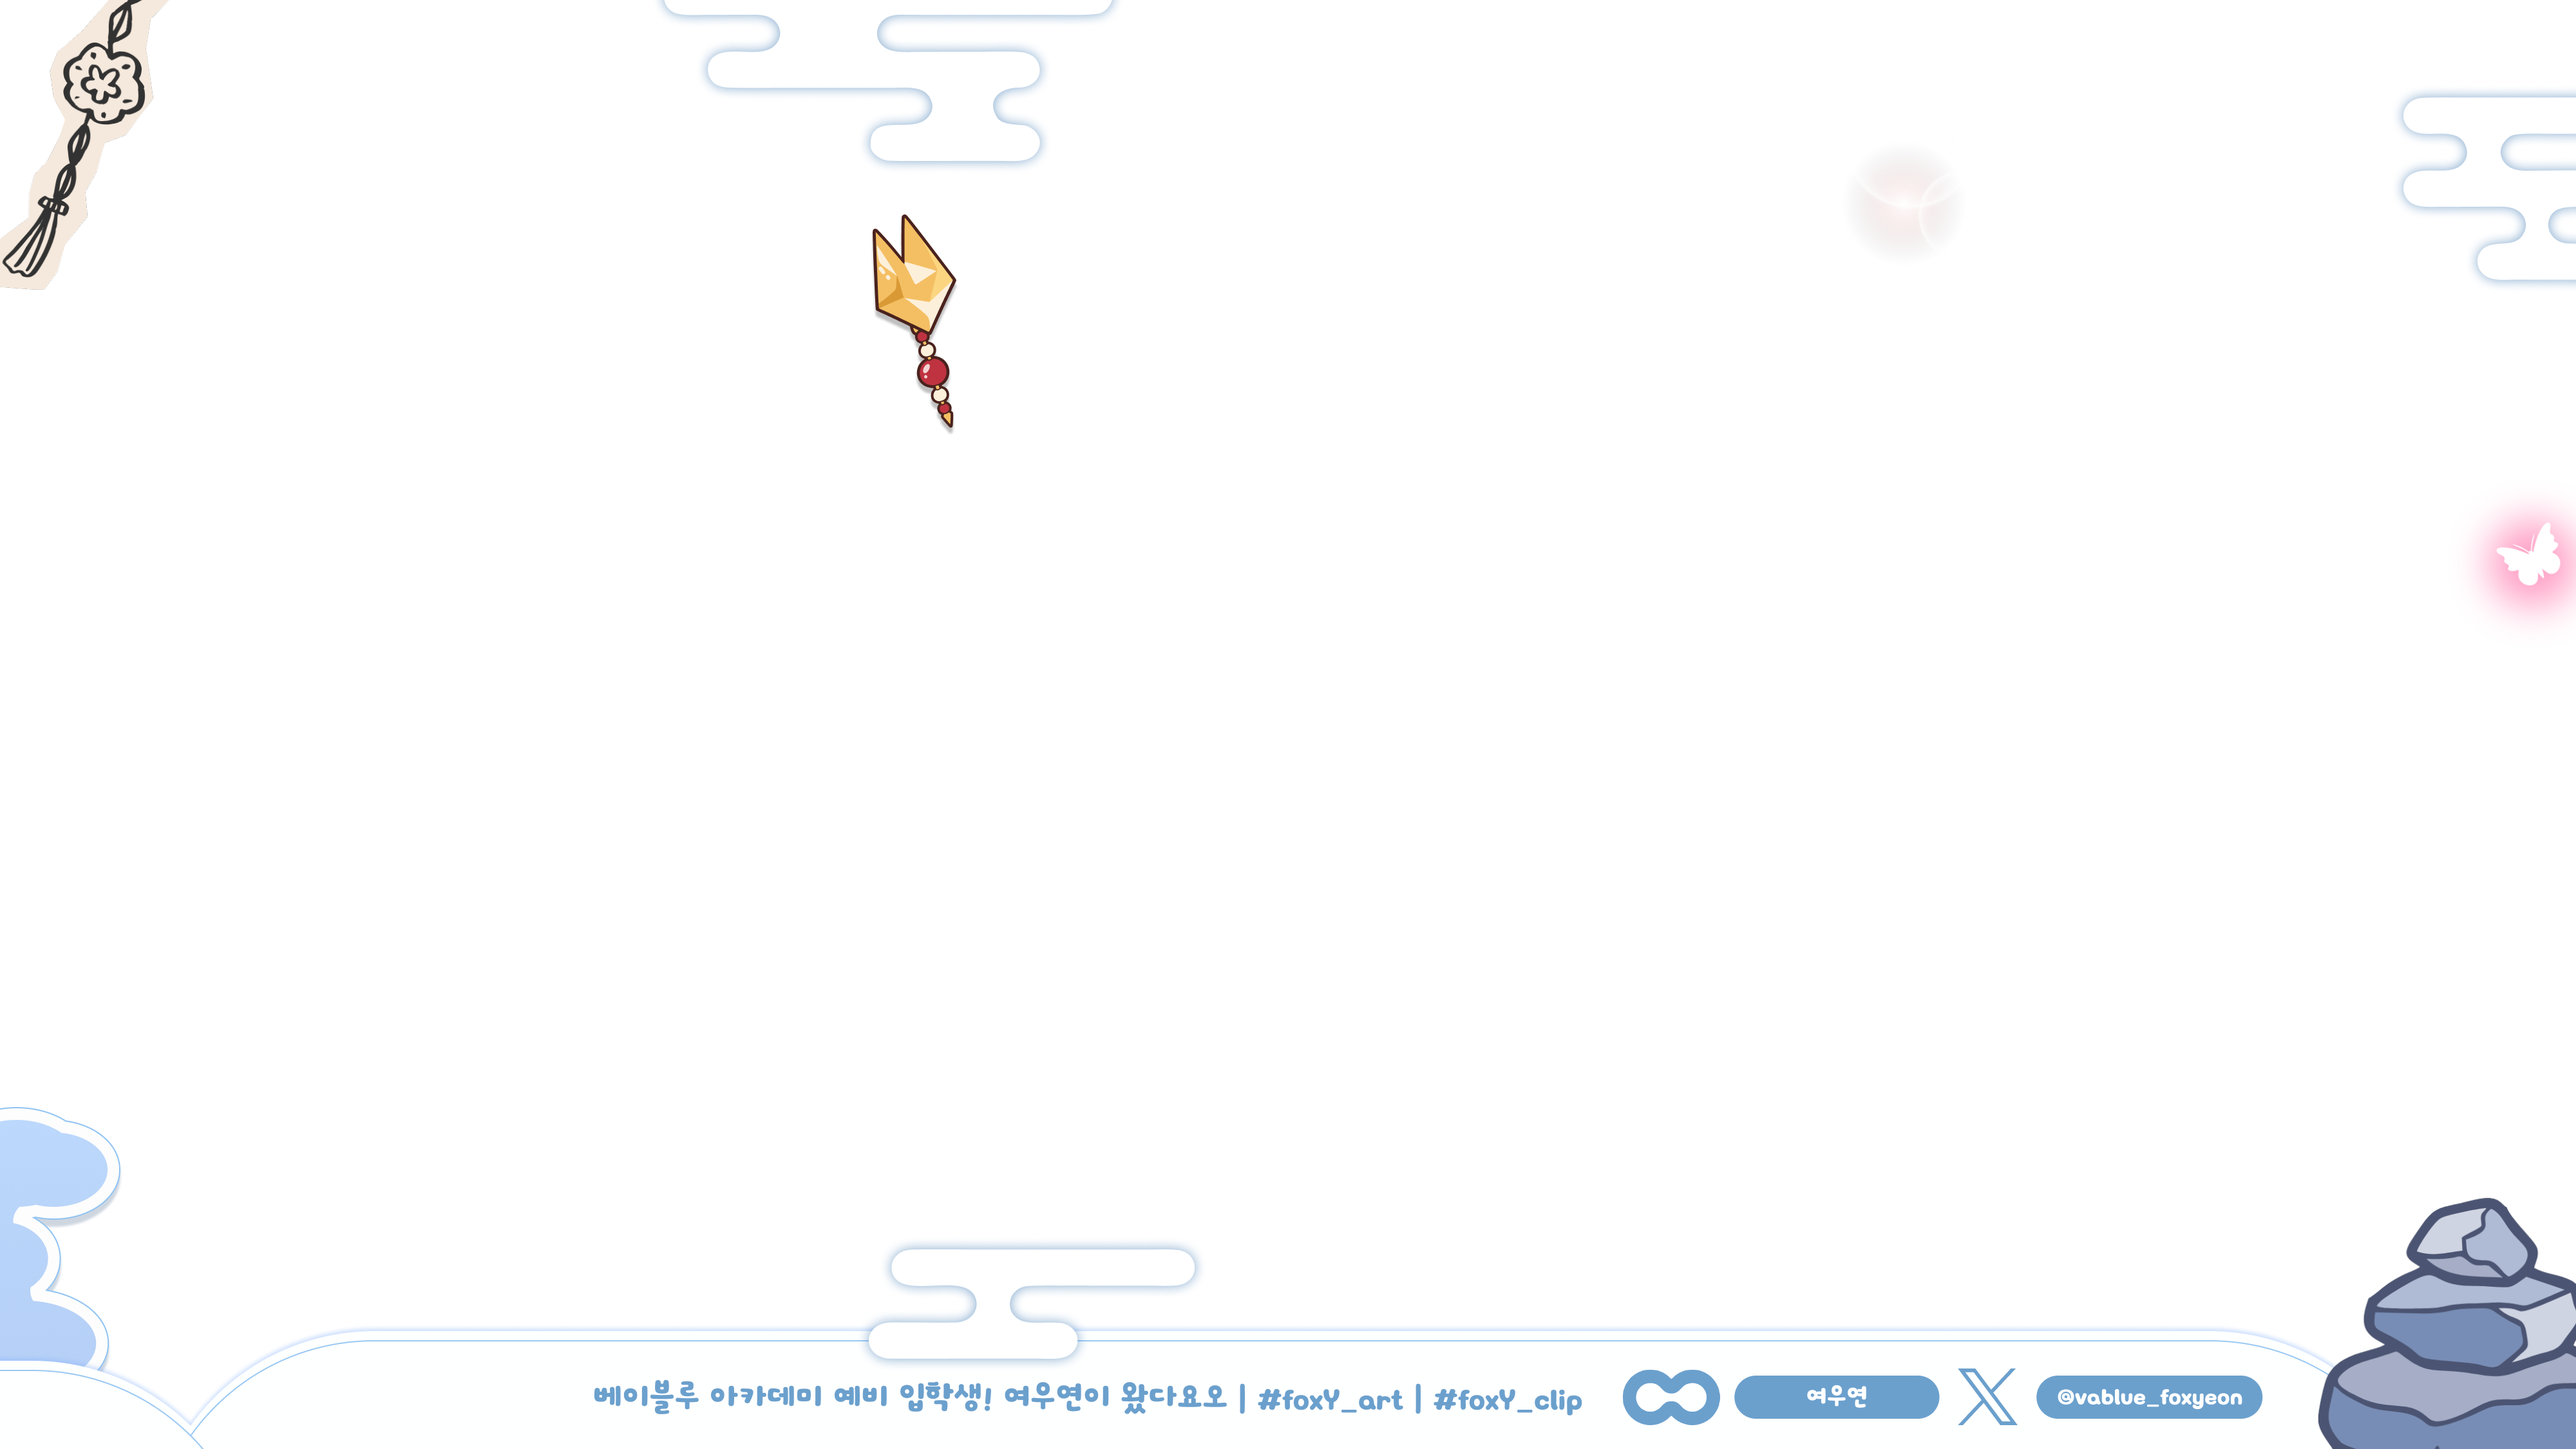
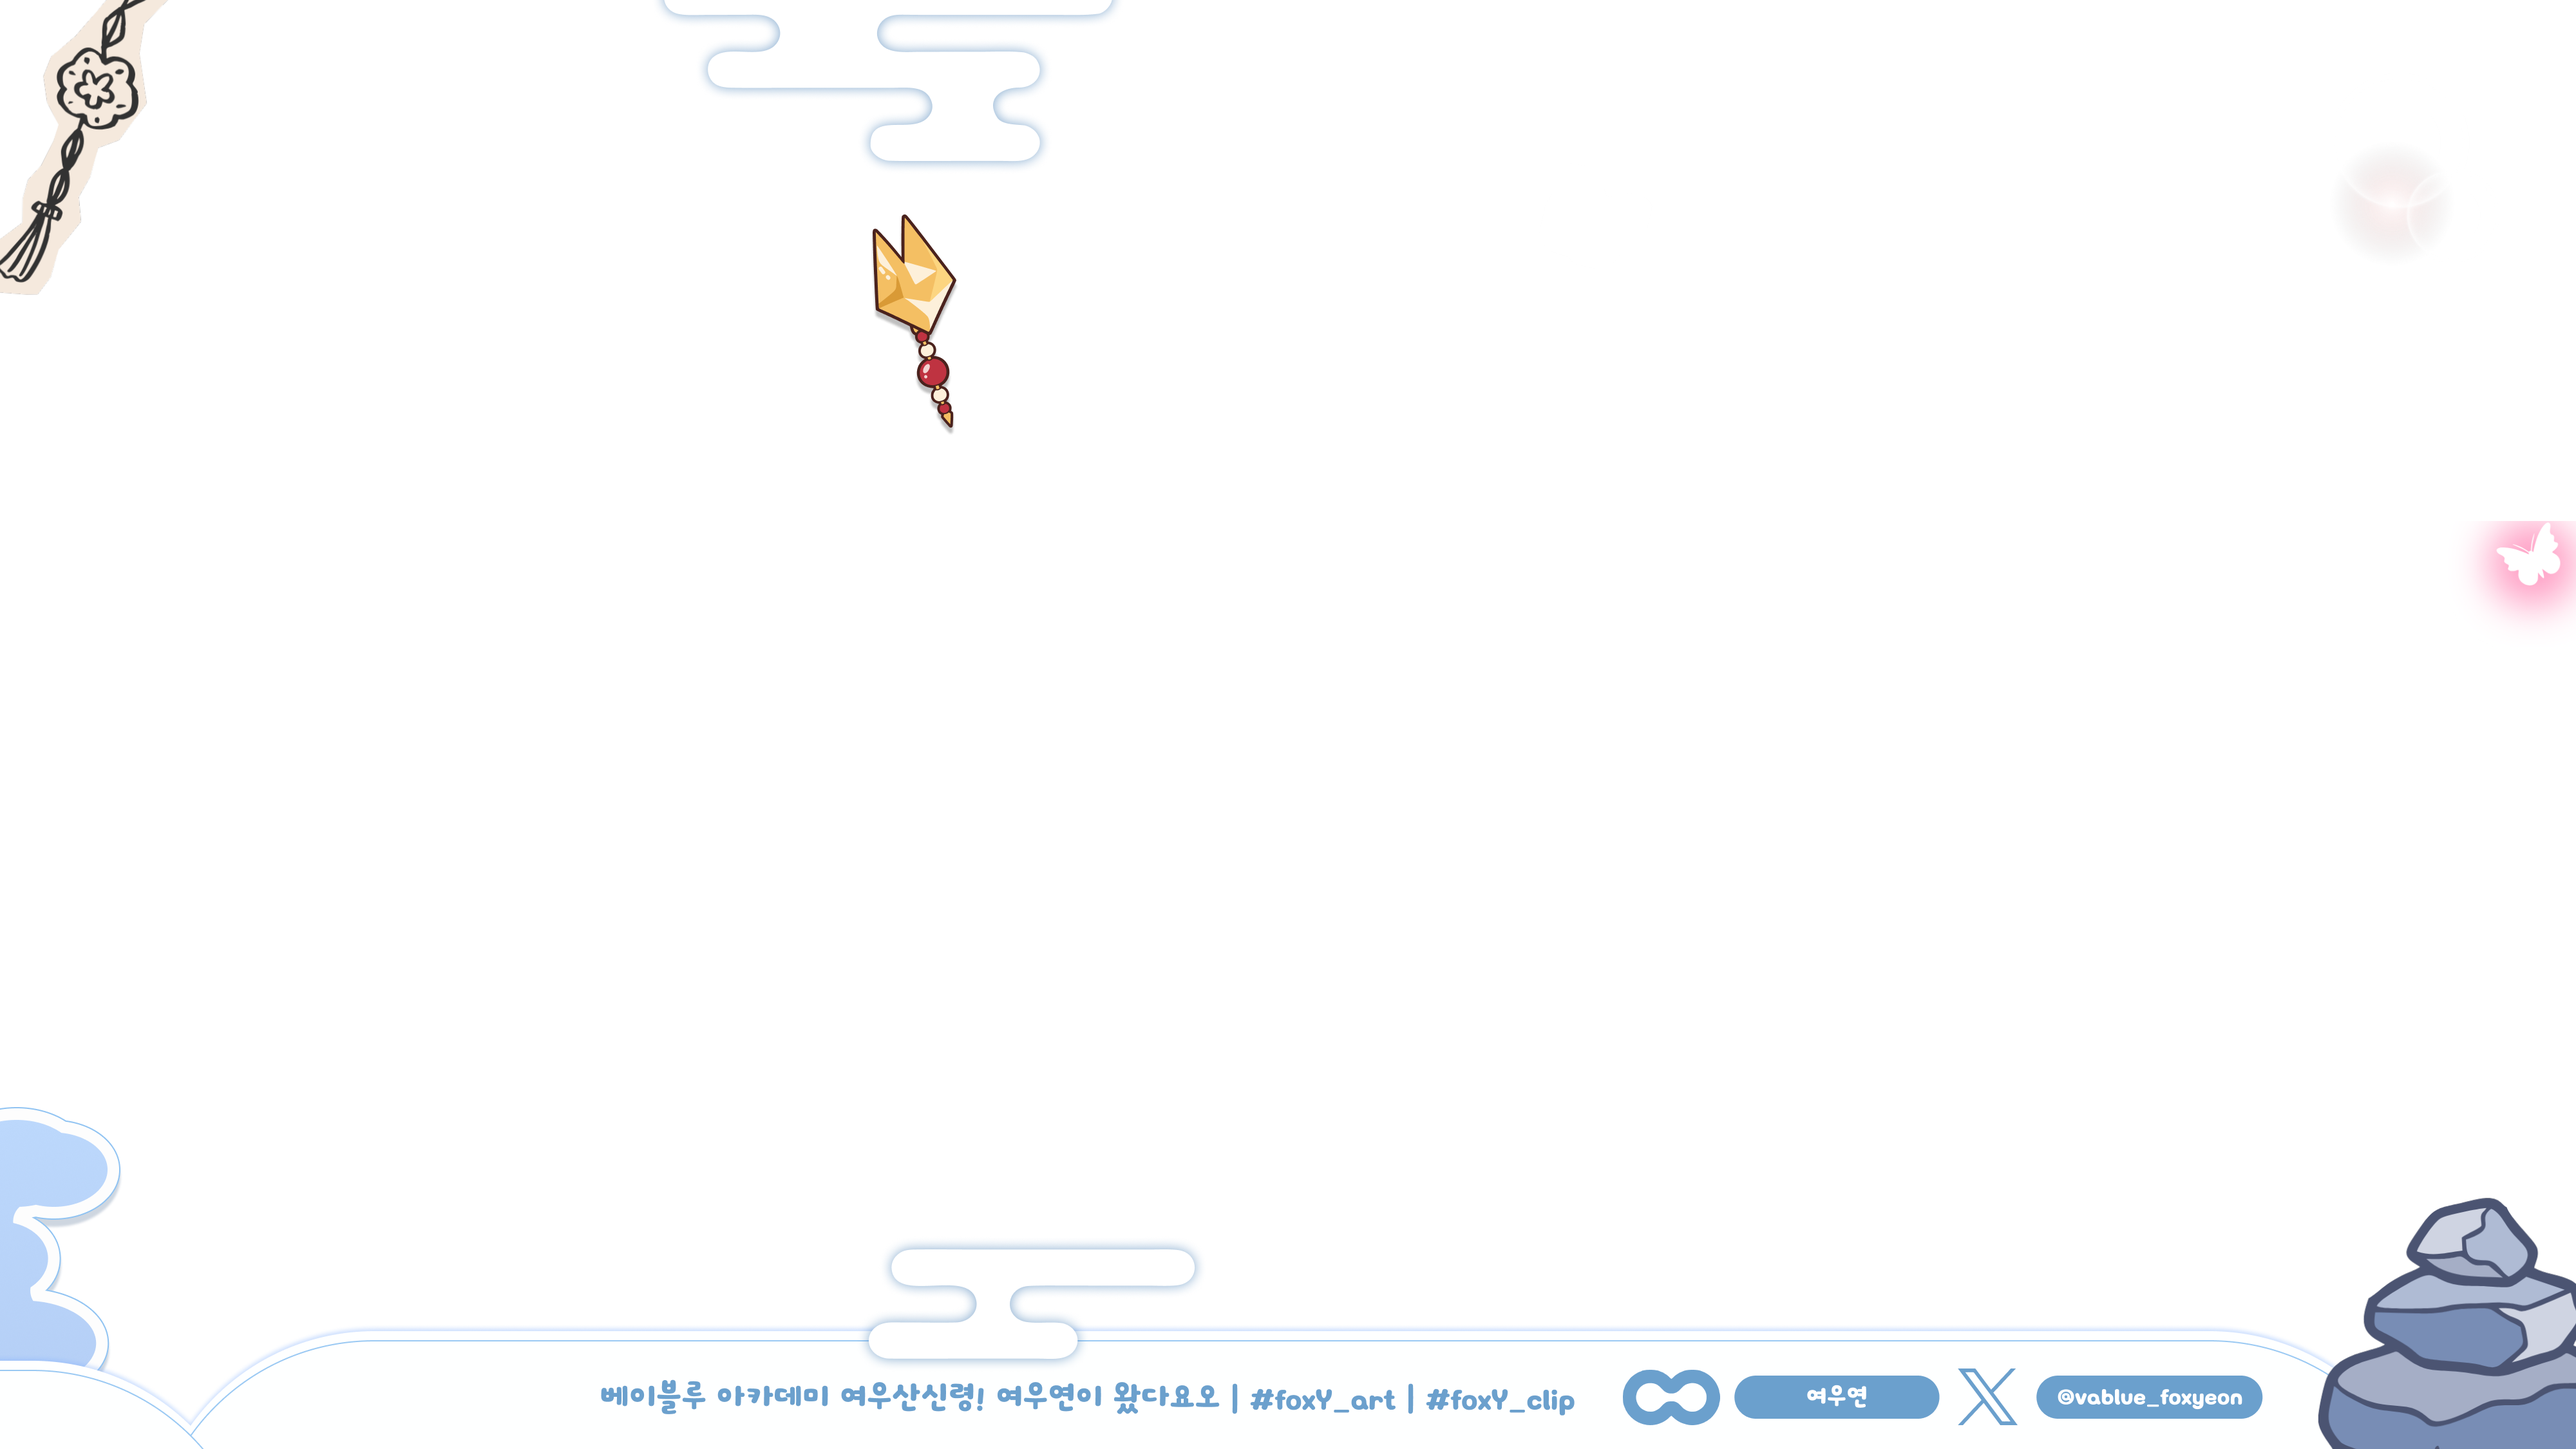
Feat: 여우연님 시간표 수정

diff --git a/src/app/(root)/time-table/f1ecd870-a161-4753-a726-d2c0fdf523c2/_components/TimeTableGrid.tsx b/src/app/(root)/time-table/f1ecd870-a161-4753-a726-d2c0fdf523c2/_components/TimeTableGrid.tsx
@@ -25,8 +25,6 @@ const TimeTableGrid: React.FC<TimeTableGridProps> = ({
       }}
       className="absolute grid grid-cols-3 z-20"
     >
-      <div></div>
-      <div></div>
       {data.map((time, i) => (
         <Fragment key={time.day}>
           <TimeTableCell
@@ -35,6 +33,12 @@ const TimeTableGrid: React.FC<TimeTableGridProps> = ({
             weekDate={weekDates[i]}
             index={i}
           />
+          {i === 0 && (
+            <>
+              <div></div>
+              <div></div>
+            </>
+          )}
         </Fragment>
       ))}
     </div>

diff --git a/src/app/(root)/time-table/f1ecd870-a161-4753-a726-d2c0fdf523c2/_components/TimeTableWeekFlag.tsx b/src/app/(root)/time-table/f1ecd870-a161-4753-a726-d2c0fdf523c2/_components/TimeTableWeekFlag.tsx
@@ -29,8 +29,8 @@ const TimeTableWeekFlag = ({
           fontFamily: COMP_FONTS.WEEKLY_FLAG,
           color: "#2C415C",
           fontSize: 56,
-          top: 136,
-          left: 1820,
+          top: 142,
+          left: 2548,
           width: 1200,
           height: 80,
           letterSpacing: -2,
